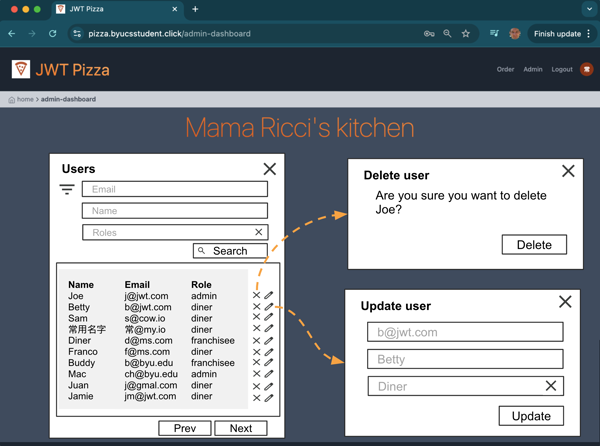
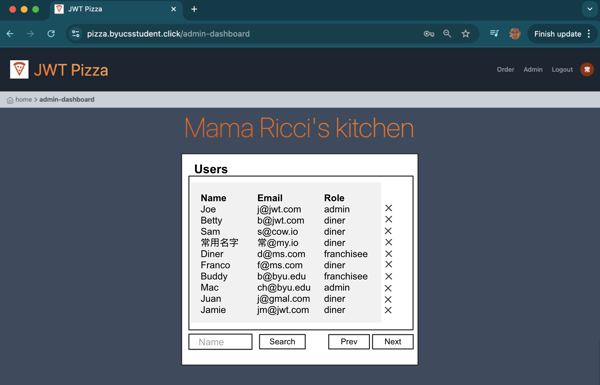
finish(d5tdd)

diff --git a/instruction/deliverable5tdd/deliverable5tdd.md b/instruction/deliverable5tdd/deliverable5tdd.md
@@ -20,12 +20,11 @@ Failing to do this will likely slow you down as you will not have the required k
 
 The JWT Pizza CEO wants to add a few new features to the application before we go live. This includes:
 
-| Feature         | Description                                                                                                                                                                                         |
-| --------------- | --------------------------------------------------------------------------------------------------------------------------------------------------------------------------------------------------- |
-| **Update user** | As a **user** I can change my name, email, and password.                                                                                                                                            |
-| **List users**  | As an **admin** I can see a list of all users. Each user's name, email, and role is displayed. The list is paginated with a length of 10. The list can be filtered by email address, role, or name. |
-| **Modify user** | As an **admin** I can change any user's name, email, and roles.                                                                                                                                     |
-| **Delete user** | As an **admin** I can delete any user.                                                                                                                                                              |
+| Feature         | Description                                                                                                                                                  |
+| --------------- | ------------------------------------------------------------------------------------------------------------------------------------------------------------ |
+| **Update user** | As a **user** I can change my name, email, and password.                                                                                                     |
+| **List users**  | As an **admin** I can see a list of all users. Each user's name, email, and role is displayed. The list is paginated. The list can be filtered by user name. |
+| **Delete user** | As an **admin** I can delete any user.                                                                                                                       |
 
 ## Design
 
@@ -35,21 +34,21 @@ First we need to define what the interface is going to look like from the user's
 
 The **Update user** feature is added to the diner dashboard view.
 
-![alt text](updateUserWireframe.png)
+![Update user wireframe](updateUserWireframe.png)
 
-The **List/Modify/Delete user** features are added to the admin dashboard view.
+The **List/Delete user** features are added to the admin dashboard view.
 
-![alt text](adminUsersWireframe.png)
+![List/Delete user wireframe](adminUsersWireframe.png)
 
 ### Endpoint definitions
 
 Next we think about things from the frontend developer's perspective by defining the interface that the frontend will use in order to implement the features. This includes the ability to update, delete, and list users. The update user endpoint already exists, but we will need to add the other two endpoints as part of this work.
 
-| method | endpoint                                  | request body                                                                        | response body                                                                                                                                                                            |
-| ------ | ----------------------------------------- | ----------------------------------------------------------------------------------- | ---------------------------------------------------------------------------------------------------------------------------------------------------------------------------------------- |
-| PUT    | /api/user/:userId                         | {"name":"bob","email":"a@jwt.com", "password":"admin", "roles":[{"role": "diner"}]} | {"email":"a@jwt.com", "roles":[{"role": "diner"}]}                                                                                                                                       |
-| DELETE | /api/user/:userId                         |                                                                                     |                                                                                                                                                                                          |
-| GET    | /api/user?page=1&email=\*&name=\*&role=\* |                                                                                     | {"users":[<br/>{"id":3,"name":"Kai Chen","email":"d@jwt.com","roles":[{"role":"diner"}]},<br/>{"id":5,"name":"Buddy","email":"b@jwt.com","roles":[{"role":"admin"}]}<br/>], "more":true} |
+| method | endpoint                          | request body                                                                        | response body                                                                                                                                                                            |
+| ------ | --------------------------------- | ----------------------------------------------------------------------------------- | ---------------------------------------------------------------------------------------------------------------------------------------------------------------------------------------- |
+| PUT    | /api/user/:userId                 | {"name":"bob","email":"a@jwt.com", "password":"admin", "roles":[{"role": "diner"}]} | {"email":"a@jwt.com", "roles":[{"role": "diner"}]}                                                                                                                                       |
+| DELETE | /api/user/:userId                 |                                                                                     |                                                                                                                                                                                          |
+| GET    | /api/user?page=1&limit=10&name=\* |                                                                                     | {"users":[<br/>{"id":3,"name":"Kai Chen","email":"d@jwt.com","roles":[{"role":"diner"}]},<br/>{"id":5,"name":"Buddy","email":"b@jwt.com","roles":[{"role":"admin"}]}<br/>], "more":true} |
 
 ## Using TDD for frontend development
 
@@ -89,7 +88,7 @@ import { HSOverlay } from 'preline';
 import Button from '../components/button';
 ```
 
-We then add an `updateUser` function that is called when the **Edit** button is pressed.
+We then add an `updateUser` function that is called when the **Edit** button is pressed. The delay is used so that the preline can update the dialog React state correctly before we tell it to close. Otherwise, when running under automation we may tell preline to close before React has told preline that the dialog is actually displayed.
 
 ```ts
 async function updateUser() {
@@ -280,11 +279,17 @@ await page.getByRole('link', { name: 'pd' }).click();
 await expect(page.getByRole('main')).toContainText('pizza dinerx');
 ```
 
-This test will fail. Take a minute an try and figure out why. What did we miss?
+Now the test will fail. Take a minute an try and figure out why. What did we miss?
 
 ### Debugging the test
 
-You can figure out what went wrong by guessing at what the code does, running the application as a user, or by debugging the test. My preference is usually debugging the test because I can set breakpoints, let the test repeatedly drive the action, and easily observe where my assumptions failed.
+You can figure out what went wrong by either:
+
+1. Guessing at what the code does
+1. Running the application as a user
+1. Debugging the test.
+
+My preference is usually debugging the test because I can set breakpoints, let the test repeatedly drive the action, and easily observe where my assumptions failed.
 
 ![Debug test](debugTest.gif)
 
@@ -292,7 +297,7 @@ As the above debugging session shows, the test failed because the user informati
 
 ### Calling the service
 
-To fix this we need to modify the `pizzaService` so that we can call the service endpoint to update a user. This is done by first updating the service interface with an `updateUser` endpoint and then adding an implementation that will send the updated user to the service.
+To fix this we need to modify the front end `pizzaService.ts` facade code so that we can call the service endpoint to update a user. This is done by first updating the service interface with an `updateUser` endpoint and then adding an implementation that will send the updated user to the service.
 
 **pizzaService.ts**
 
@@ -337,17 +342,21 @@ Now when we rerun our test, everything is green. This is a great time to commit 
 
 ![Update User Test Success](updateUserTestSuccess.png)
 
+> [!NOTE]
+>
+> The above test does not mock out the backend. When you are using TDD for full stack development it is helpful to drive your development across the whole stake. However, when you push the front end test to your CI pipeline it will fail because there is no backend available when running under GitHub Actions. You can either solve this by either mocking out the backend or by actually starting up a backend when your frontend tests run.
+
 There are still other tests that we need to write in order for us to be fully comfortable with the new **update user** functionality. This includes changing the password and email address, and changing user information using different roles. Go ahead and write those tests now and commit those changes also.
 
 ## Using TDD for backend development
 
-Before you go off and use TDD to implement all of the new functionality, let's do a little TDD on the backend. To start, want to use TDD to stub in the **Get Users** endpoint. We can actually do a little Documentation Driven Development (DDD) by first adding the endpoint to the docs found in the **userRouter.js** code. This will help us understand what we are trying to implement.
+Before you go off and use TDD to implement all of the new functionality, let's do a little TDD on the backend. To start, we want to use TDD to rough in the **Get Users** endpoint. We can actually do a little Documentation Driven Development (DDD) by first adding the endpoint to the docs found in the **userRouter.js** code. This will help us understand what we are trying to implement.
 
 ```js
 userRouter.docs = [
   {
     method: 'GET',
-    path: '/api/user?page=1&email=*&name=*&role=*',
+    path: '/api/user?page=1&limit=10&name=*',
     requiresAuth: true,
     description: 'Gets a list of users',
     example: `curl -X GET localhost:3000/api/user -H 'Authorization: Bearer tttttt'`,
@@ -357,7 +366,7 @@ userRouter.docs = [
 ];
 ```
 
-Based on the documentation, we can then write a simple test. Your code should already have tests for user functionality from the previous assignment. Go ahead and a basic test for the **list users** endpoint to the existing test suite.
+Based on the documentation, we can then write a simple test. Your code should already have tests for user functionality from the Jest testing deliverable. Go ahead and a basic test for the **list users** endpoint to the existing test suite.
 
 ```js
 test('list users', async () => {
@@ -395,18 +404,14 @@ userRouter.get(
 );
 ```
 
-Now the test will fail again because the request is not authorized. We can turn that test into an _unauthorizaed_ test.
+Now the test will fail because the request is not authorized. Let's turn this test into an _unauthorized_ test and write a new test that provide the required authorization token.
 
 ```js
 test('list users unauthorized', async () => {
   const listUsersRes = await request(app).get('/api/user');
   expect(listUsersRes.status).toBe(401);
 });
-```
 
-And then add a new test that registers a user and provide the authorization token.
-
-```js
 test('list users', async () => {
   const [user, userToken] = await registerUser(request(app));
   const listUsersRes = await request(app)
@@ -434,9 +439,7 @@ That should get you started with the **list users** endpoint. However, there is 
 
 - Return a list of users
 - Handle the pagination of the list
-- Handle the email filter
 - Handle the name filter
-- Handle the role filter
 
 Make sure you use TDD to implement the functionality. Implement a little bit of code, implement a little bit of the tests, and then back and forth until everything is done and all the tests are green. Have fun with the process. If you do it right, it will feel like a video game as you power up and solve all the puzzles.
 
@@ -445,7 +448,7 @@ Make sure you use TDD to implement the functionality. Implement a little bit of 
 In order to demonstrate your mastery of the concepts for this deliverable, complete the following.
 
 1. Follow the steps given above to implement the **Update user** functionality to the diner dashboard. Maintain your 80% code coverage.
-1. Use TDD to implement the **List/Update/Delete users** functionality to the admin dashboard. Maintain you 80% code coverage.
+1. Use TDD to implement the **List/Delete users** functionality to the admin dashboard. Maintain you 80% code coverage.
 
 Once this is all working, go to the [AutoGrader](https://cs329.cs.byu.edu) and submit your work for the deliverable.
 
@@ -455,5 +458,4 @@ Once this is all working, go to the [AutoGrader](https://cs329.cs.byu.edu) and s
 | ------- | --------------------------------------------------------------------------- |
 | 20%     | Update user implemented on diner dashboard using TDD with 80% code coverage |
 | 40%     | List users implemented on admin dashboard using TDD with 80% code coverage  |
-| 20%     | Delete user implemented on admin dashboard using TDD with 80% code coverage |
-| 20%     | Update user implemented on admin dashboard using TDD with 80% code coverage |
+| 40%     | Delete user implemented on admin dashboard using TDD with 80% code coverage |
